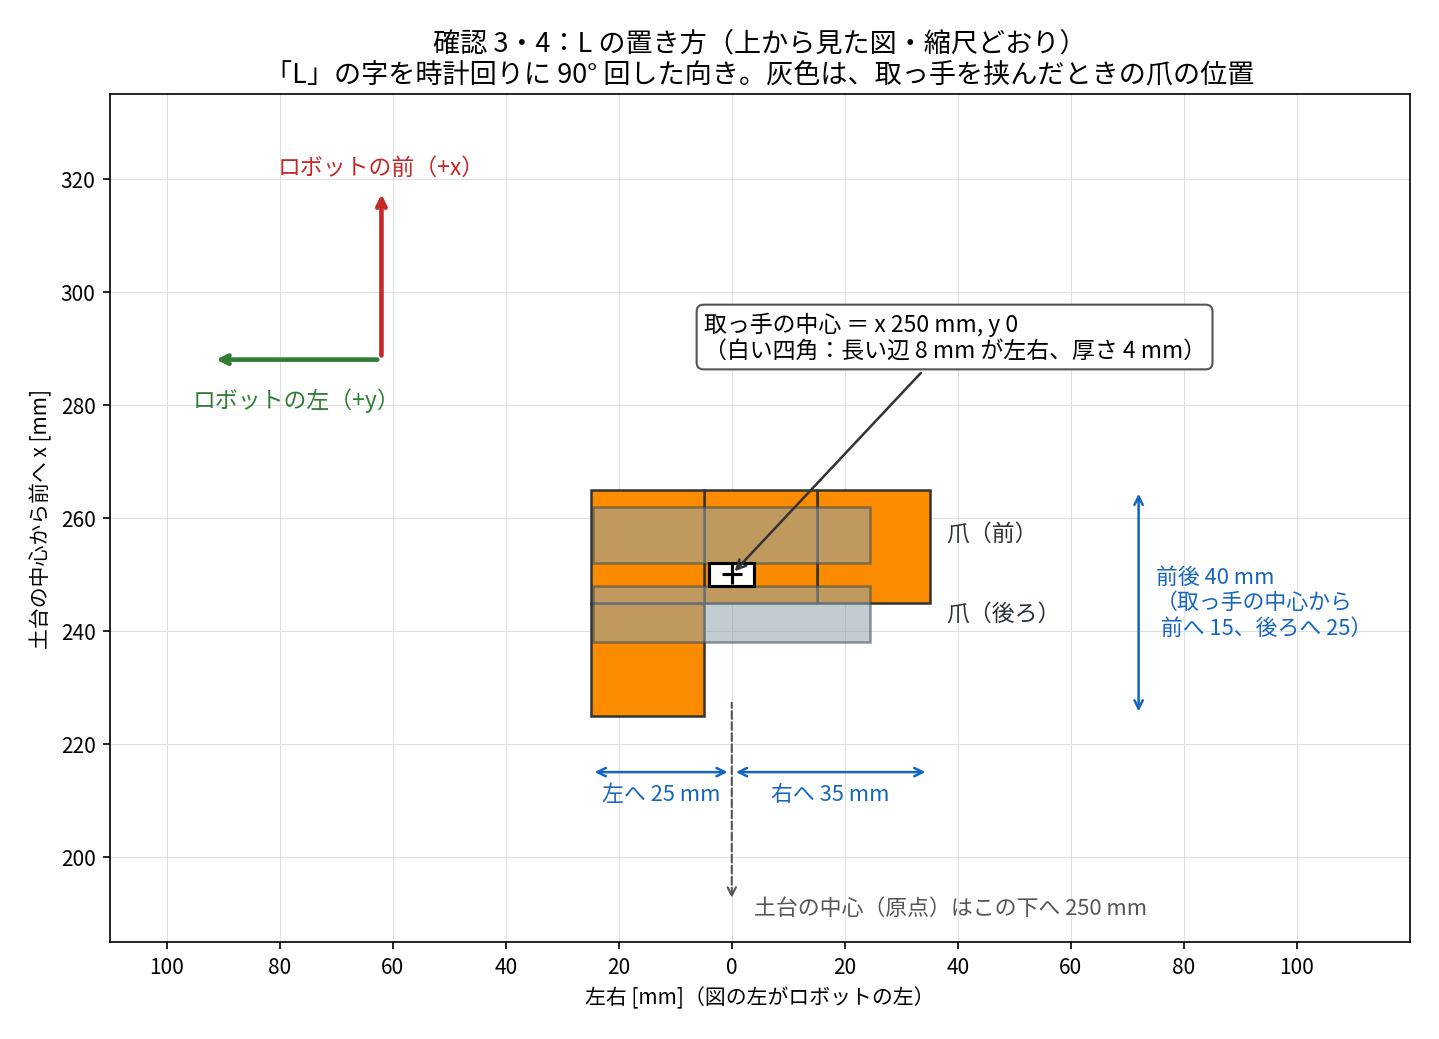
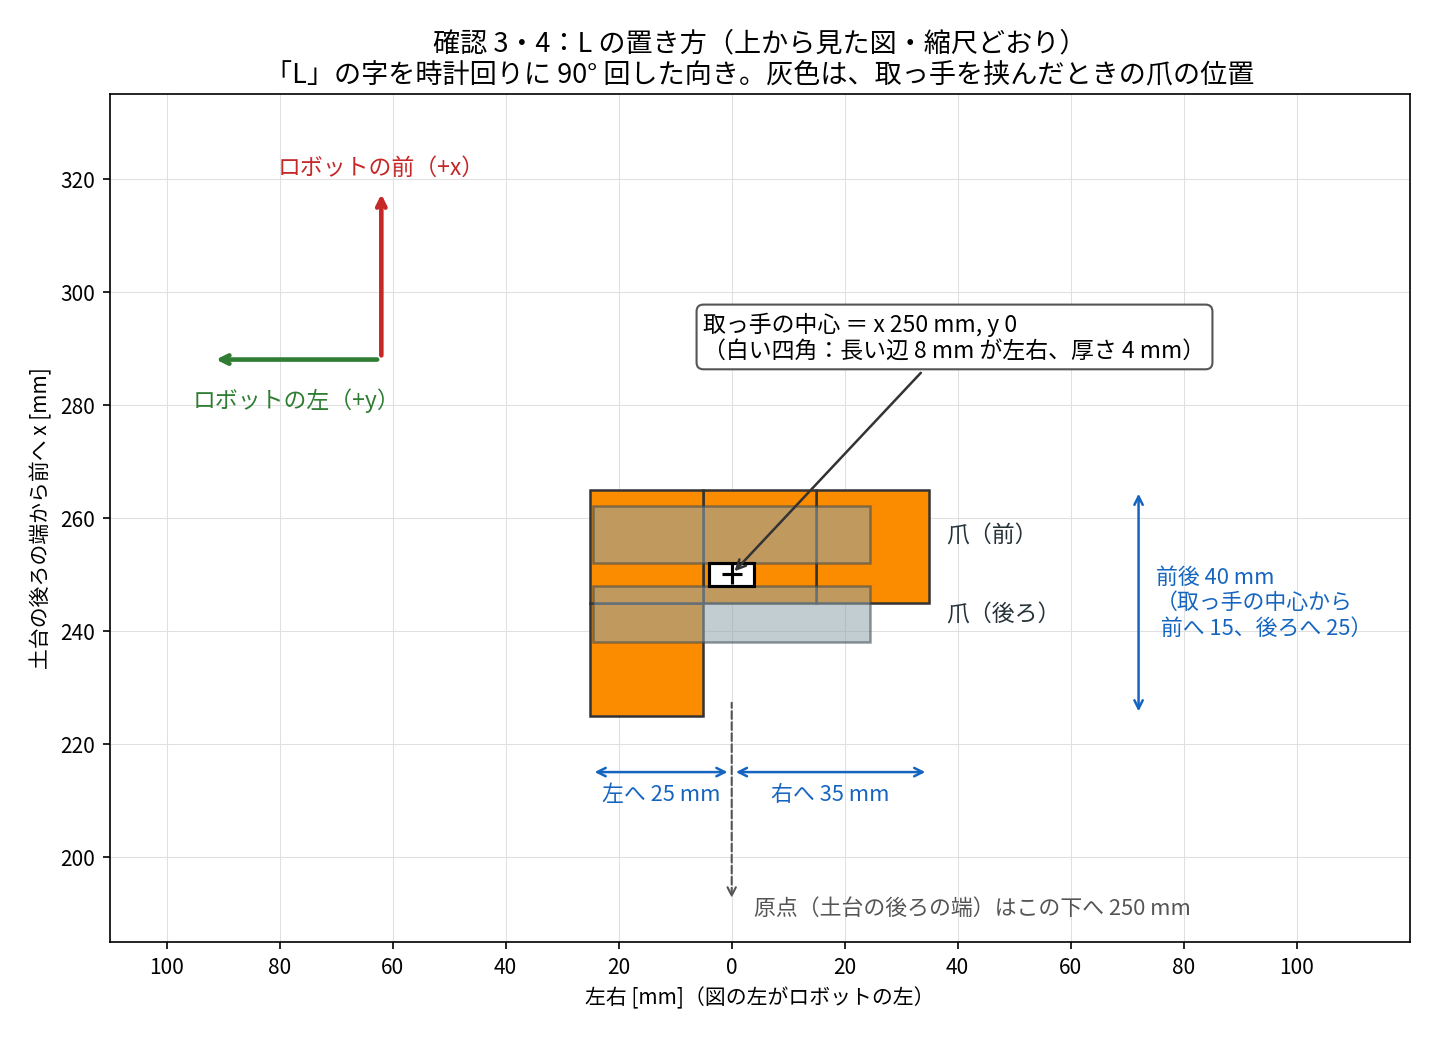
docs：置き場を測る起点を、土台の後ろの端に直す
手順書は「土台の中心」から測ると書いていたが、実機で、指令 x = 250 mm の手は
肩の軸から 170 mm の位置に来た。3D データでは肩の軸から土台の後ろの端まで 80 mm
なので、土台の後ろの端から測ると 250 mm で合う。プログラムは変えず、測る起点を
直した。測定は 1 回だけなので、ほかの位置でも合うかはこれから確かめる。

diff --git a/docs/fill_4x4_check.md b/docs/fill_4x4_check.md
@@ -35,7 +35,7 @@ colcon build --symlink-install
 
 ![配置図](fill_4x4_layout.png)
 
-図の下の中央が原点（**ロボットの土台の中心**）です。x がロボットの前、y がロボットの左です。定規で測って、机にテープで印を付けます。
+図の下の中央が原点です。原点は **土台の後ろの端の、左右の真ん中** です（土台の中心ではありません。2026-11-02 に実機で 1 回測って分かりました）。x がロボットの前、y がロボットの左です。**x は土台の後ろの端から、y は土台の左右の真ん中から** 定規で測って、机にテープで印を付けます。
 
 **ケース**：角を x = 220 mm、y = -40 mm に合わせます（前 22〜30 cm、左右 ±4 cm）。枠がなければ、80 mm 角のマスを紙に書きます。
 

diff --git a/docs/real_robot.md b/docs/real_robot.md
@@ -116,7 +116,7 @@ ros2 launch tukamukai pick_place.launch.py mode:=fill_4x4 step_by_step:=true spe
 
 ![fill_4x4 の配置](fill_4x4_layout.png)
 
-**ピースの置き方**：土台の中心から測って、**取っ手の中心** を次の位置に合わせます（X が前、Y が左）。
+**ピースの置き方**：X は土台の後ろの端から、Y は土台の左右の真ん中から測って、**取っ手の中心** を次の位置に合わせます（X が前、Y が左）。
 
 | 順番 | ピース | 置き場 X | 置き場 Y | ケースに置く位置 X, Y | 置く向き |
 |---|---|---|---|---|---|
